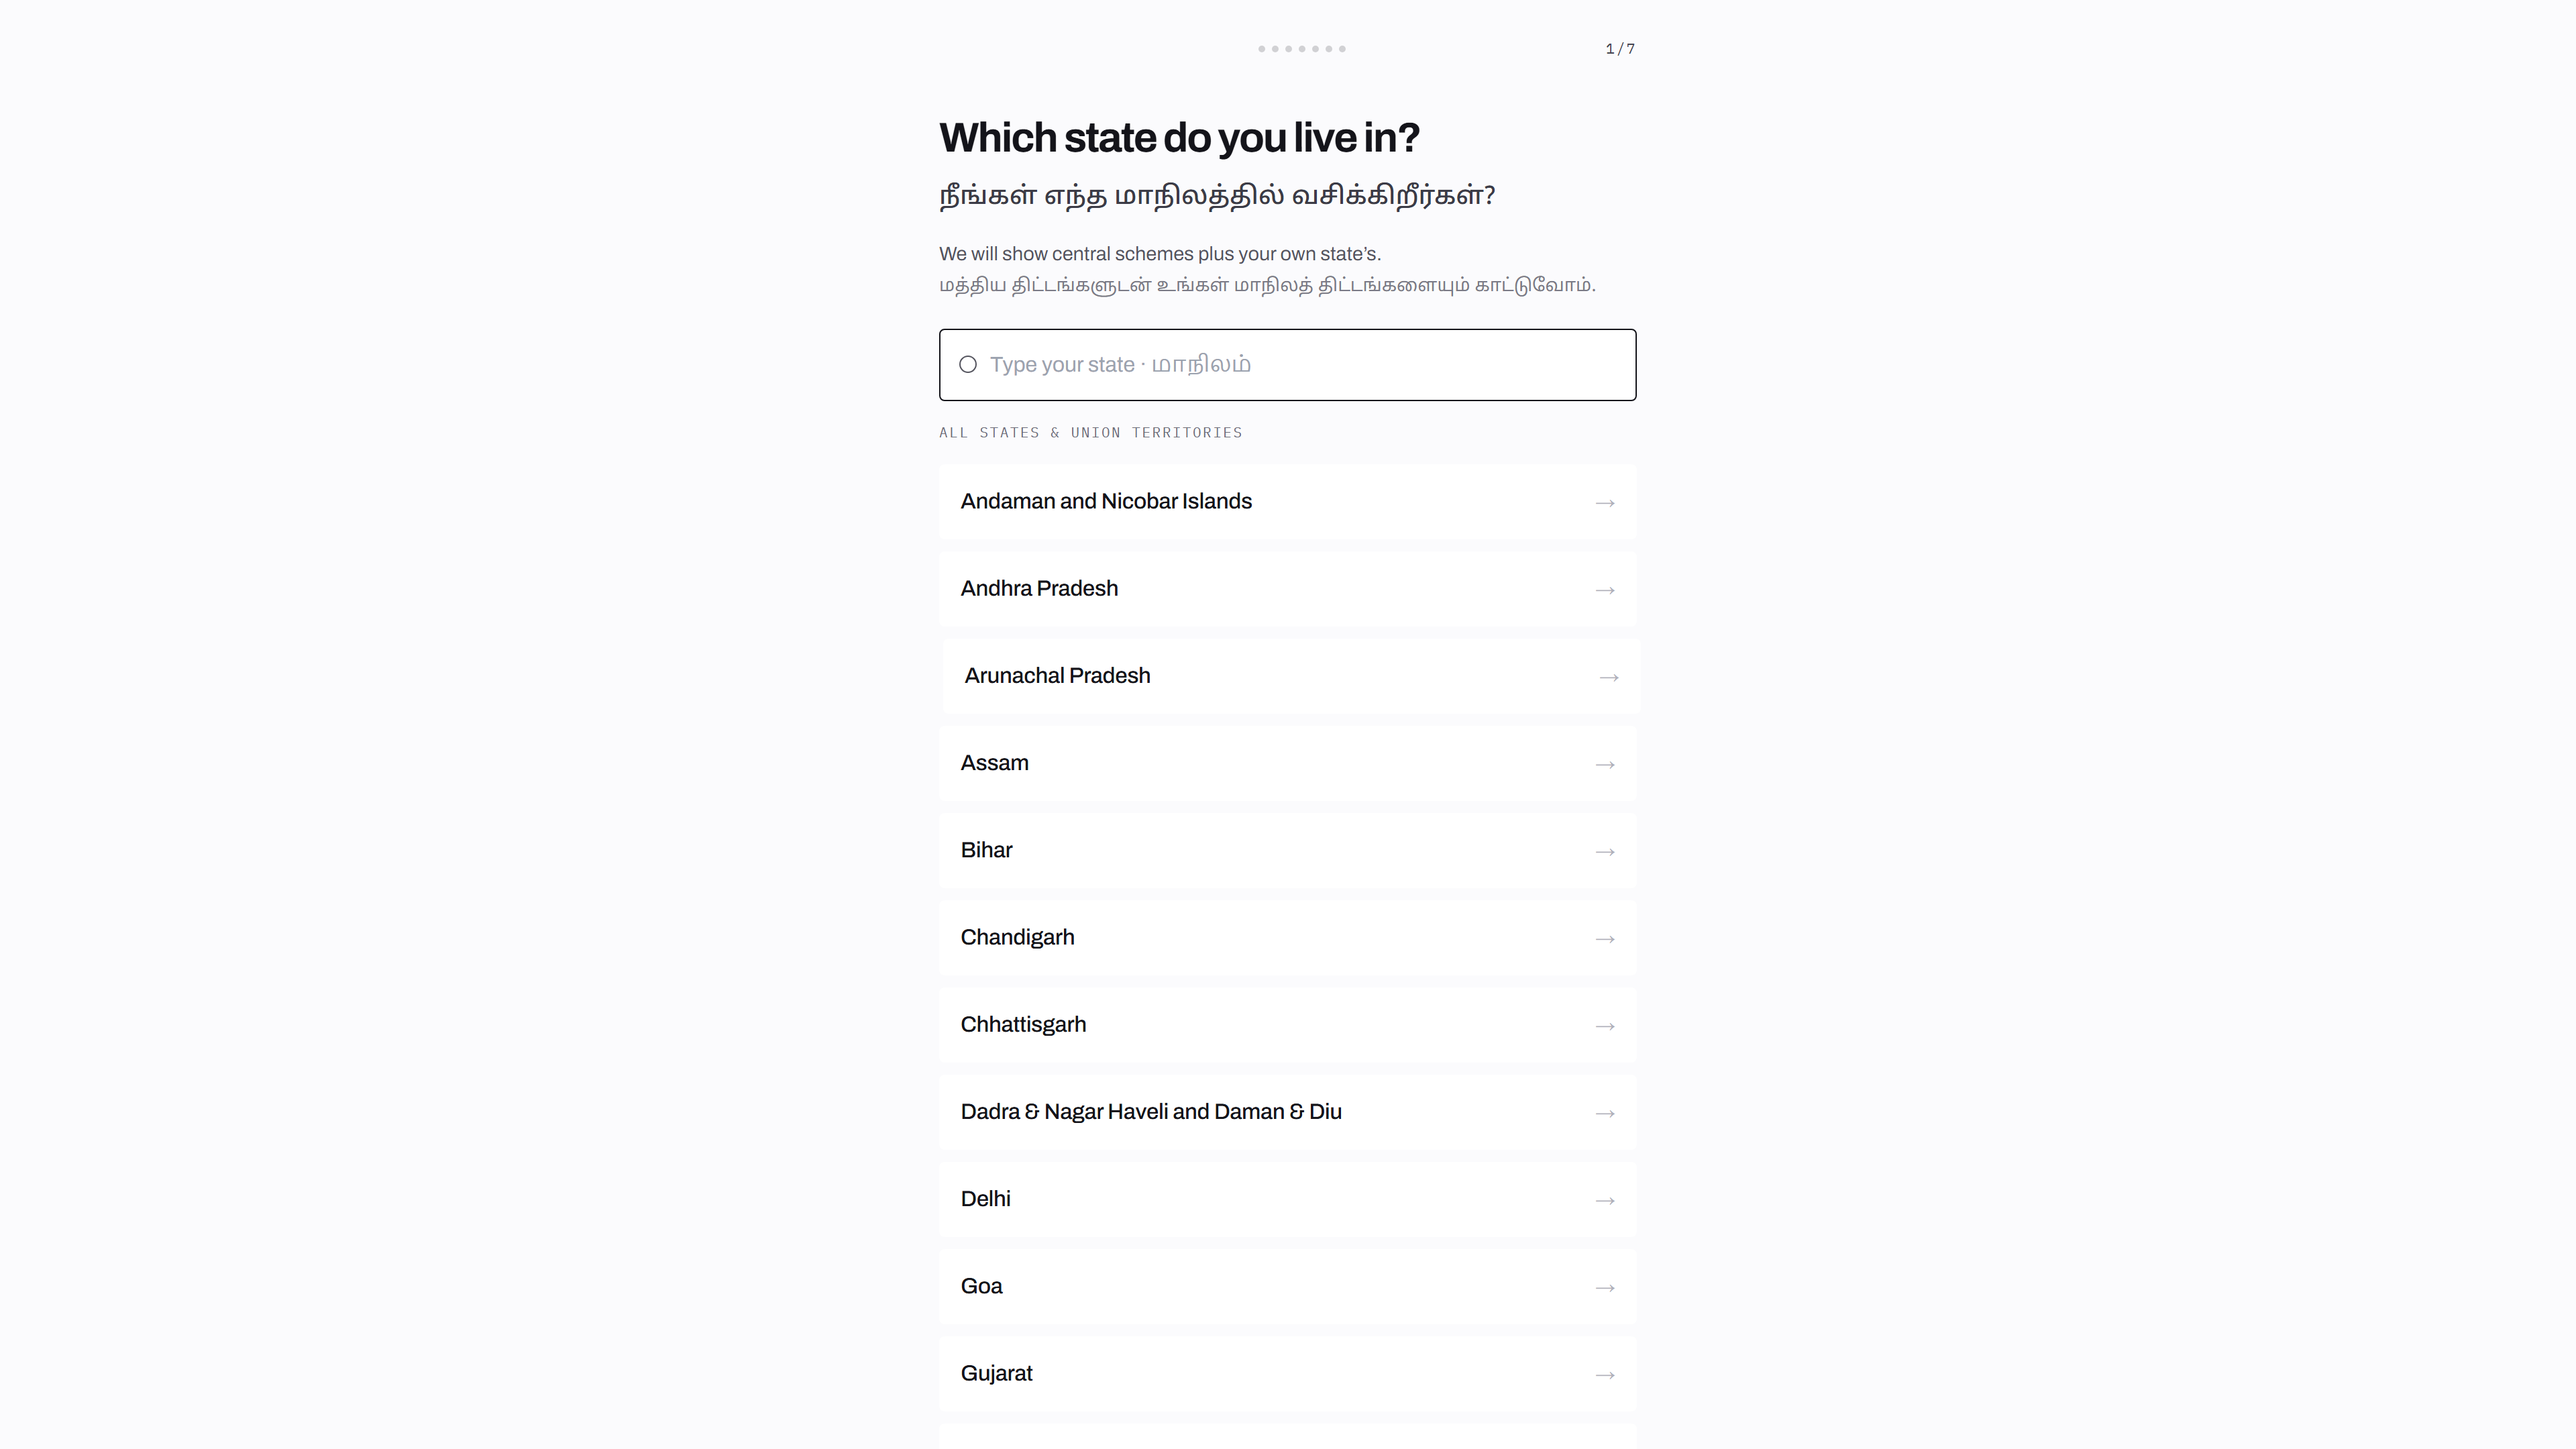
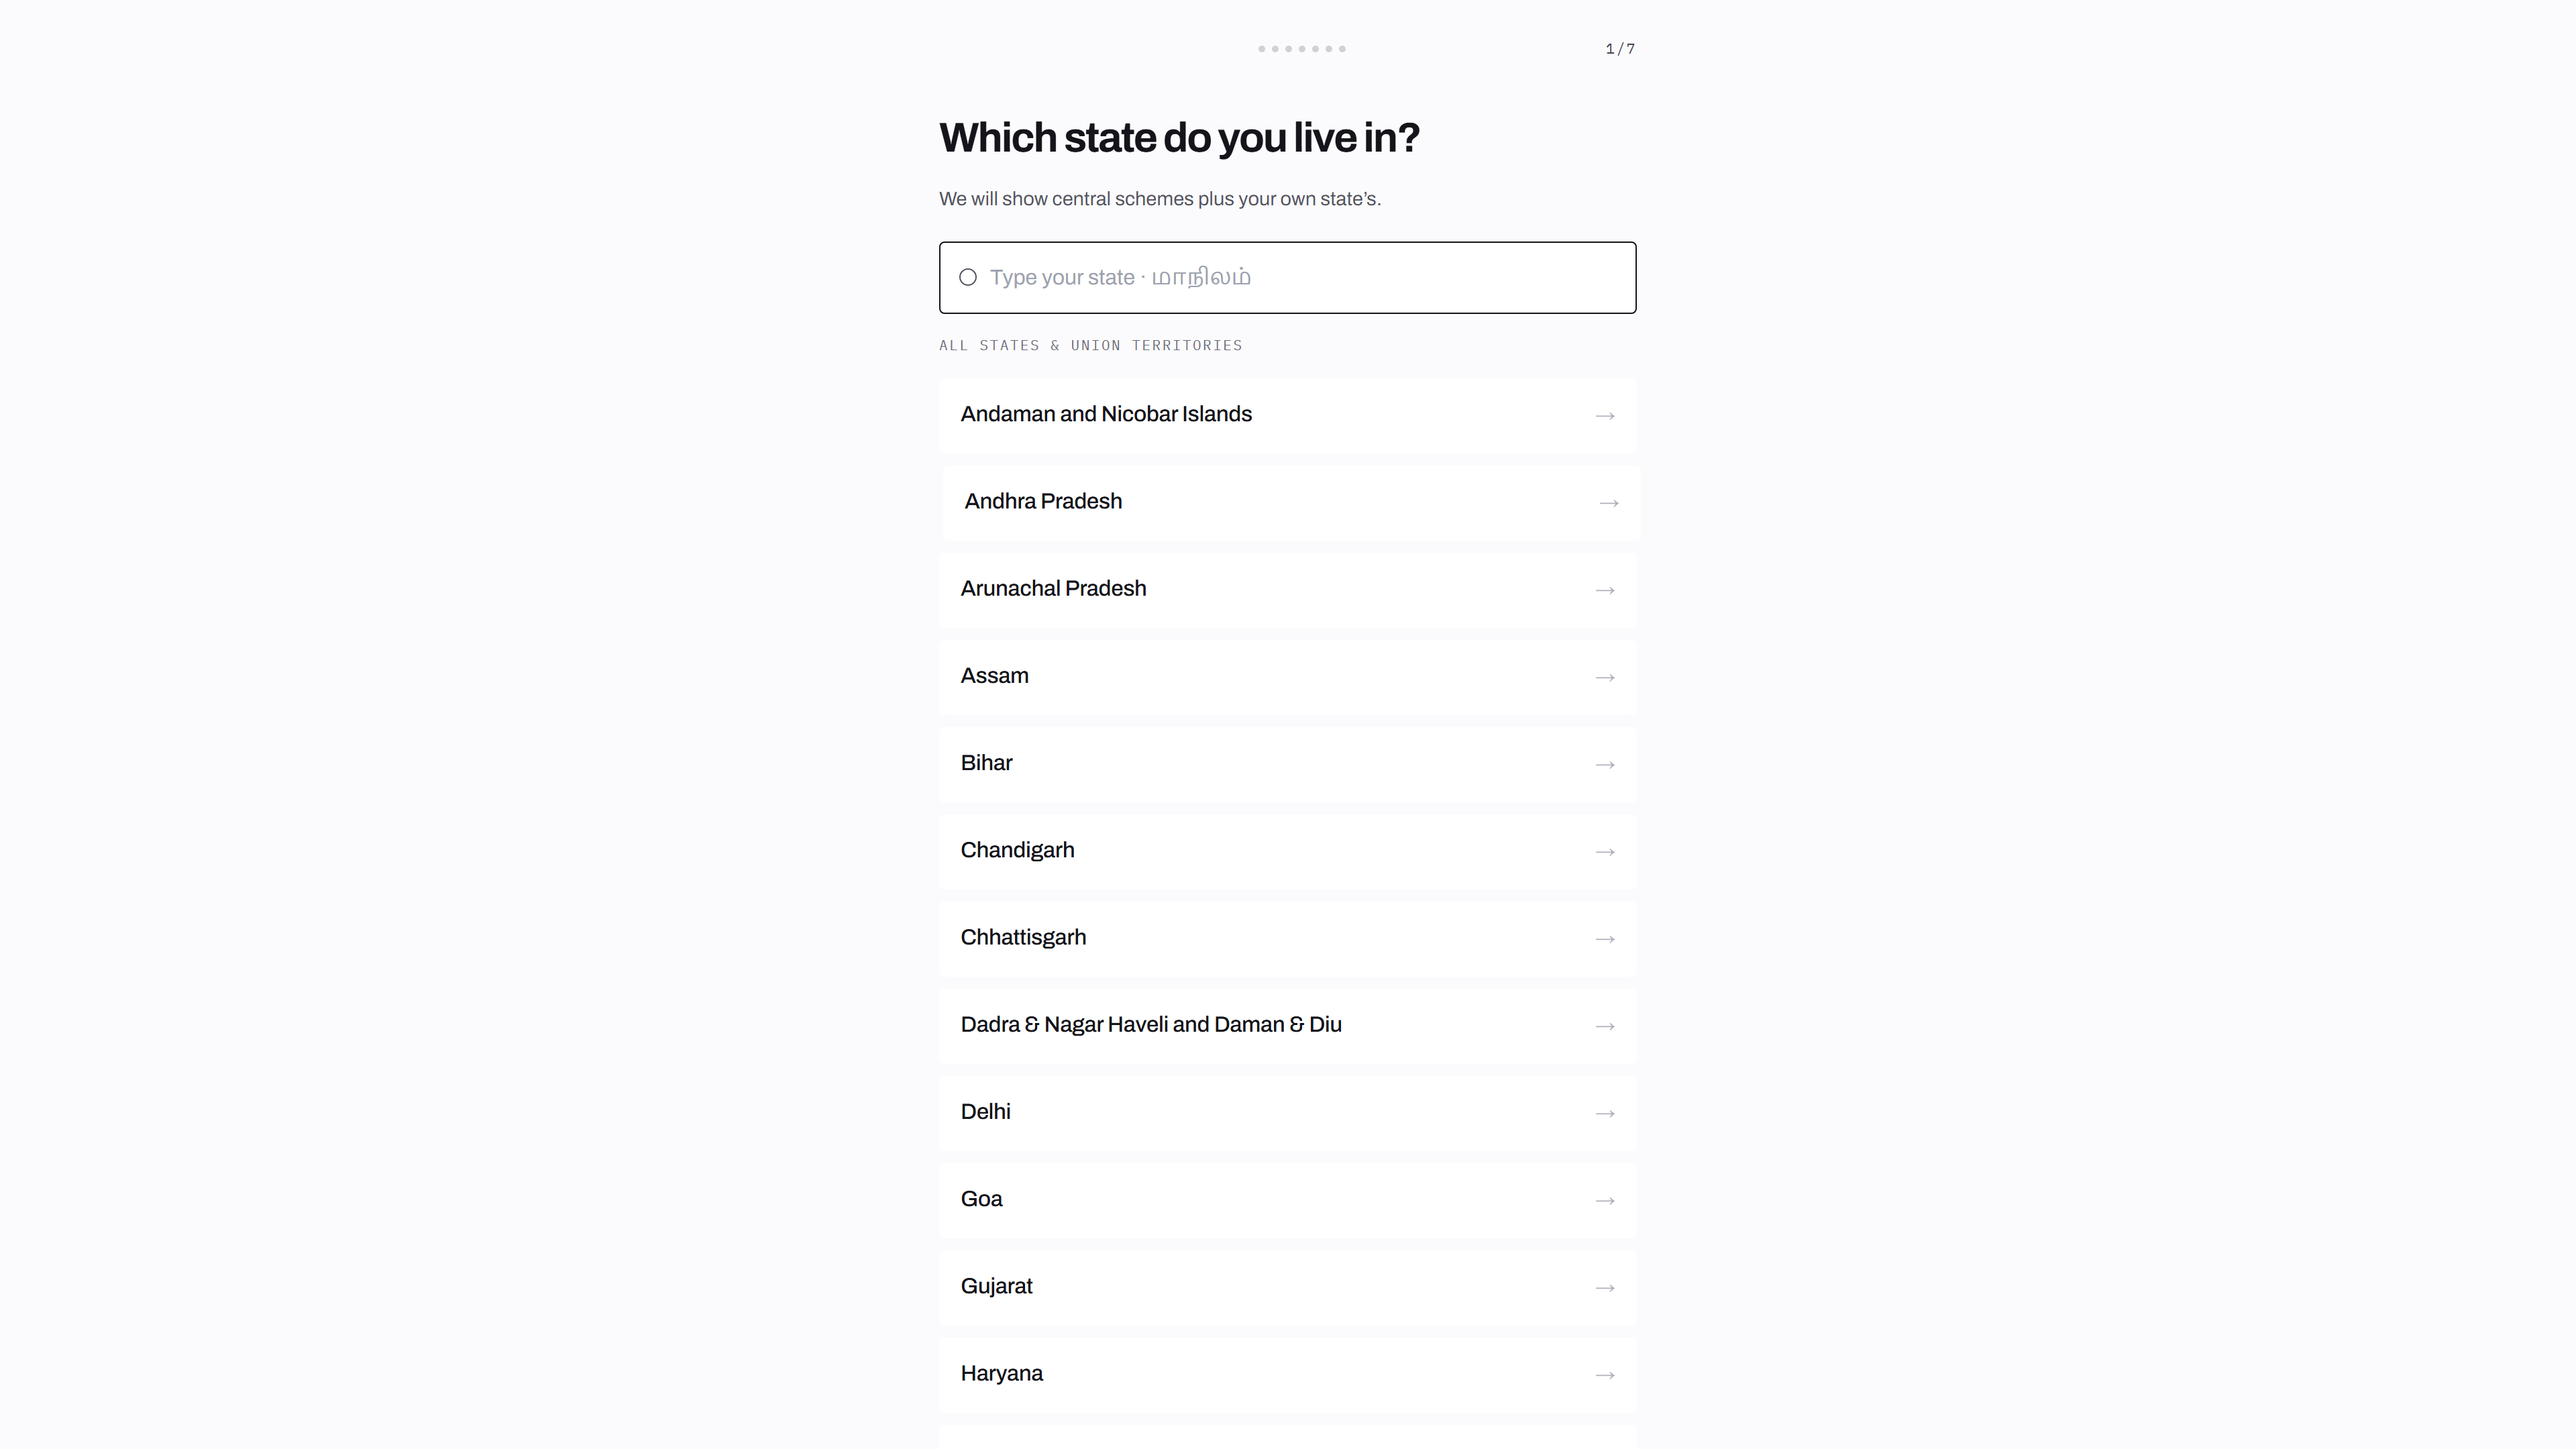
Default to English; retire the Tamil companions in English mode
The interface opened in Tamil and the language toggle only ever moved part
of it. Much of the UI renders an English line and a Tamil line together,
with the companion marked lang="ta", and that pairing was unconditional —
so switching to English left Tamil on the result screen, the scheme detail
and the landing. For an all-India project the default was backwards and
the toggle was incomplete.

Two changes, both reversible:

- useLanguage now defaults to 'en' instead of 'ta'.
- One CSS rule, html[lang='en-IN'] [lang='ta'] { display: none; },
  retires the companions in English. useLanguage already stamps the choice
  on <html>, so no component markup changed and Tamil mode is untouched —
  switch back and every line returns.

Nothing is deleted. The Tamil captures are preserved under
docs/screenshots-ta/ and docs/video-frames-ta/; the English recaptures sit
in the original directories.

diff --git a/client/src/index.css b/client/src/index.css
@@ -79,6 +79,18 @@ input, select, textarea { font: inherit; color: inherit; }
 .hide-scrollbar::-webkit-scrollbar { display: none; }
 .hide-scrollbar { -ms-overflow-style: none; scrollbar-width: none; }
 
+/* ── Language companions ────────────────────────────────────────────────────
+   Much of the UI renders an English line and a Tamil line together, with the
+   Tamil companion marked `lang="ta"`. That pairing was unconditional, so the
+   Tamil showed even with the interface set to English — the toggle moved the
+   chrome but never the companions, which is not how a language switch is
+   expected to behave.
+
+   useLanguage stamps the choice on <html>, so one rule retires the companions
+   in English and leaves Tamil mode exactly as it was. Nothing is deleted: set
+   the language back to Tamil and every line returns. */
+html[lang='en-IN'] [lang='ta'] { display: none; }
+
 /* ── Bloom drift ──────────────────────────────────────────────────────────── */
 @keyframes svDrift {
   0%   { transform: translate3d(0, 0, 0) scale(1); }

diff --git a/client/src/hooks/useLanguage.js b/client/src/hooks/useLanguage.js
@@ -2,10 +2,10 @@ import { createContext, useContext, useEffect, useState, useCallback } from 'rea
 import React from 'react';
 
 const LANG_KEY = 'sevai_lang';
-const LanguageCtx = createContext({ lang: 'ta', setLang: () => {} });
+const LanguageCtx = createContext({ lang: 'en', setLang: () => {} });
 
 export const LanguageProvider = ({ children }) => {
-  const [lang, setLangState] = useState(() => localStorage.getItem(LANG_KEY) || 'ta');
+  const [lang, setLangState] = useState(() => localStorage.getItem(LANG_KEY) || 'en');
 
   const setLang = useCallback((l) => {
     setLangState(l);
